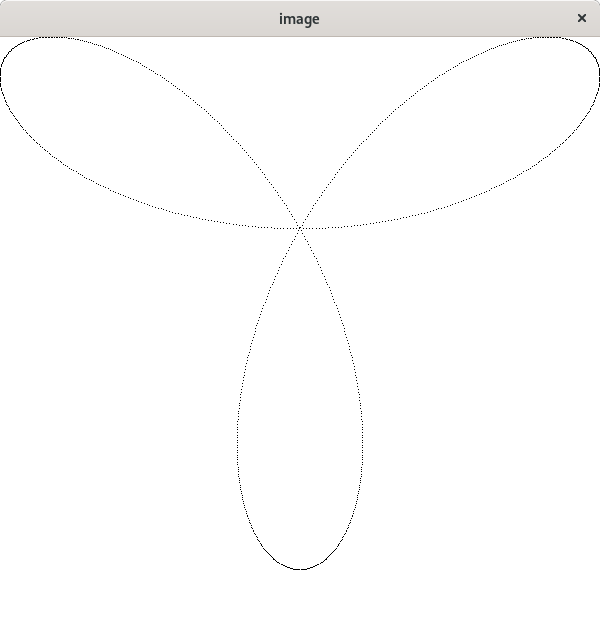
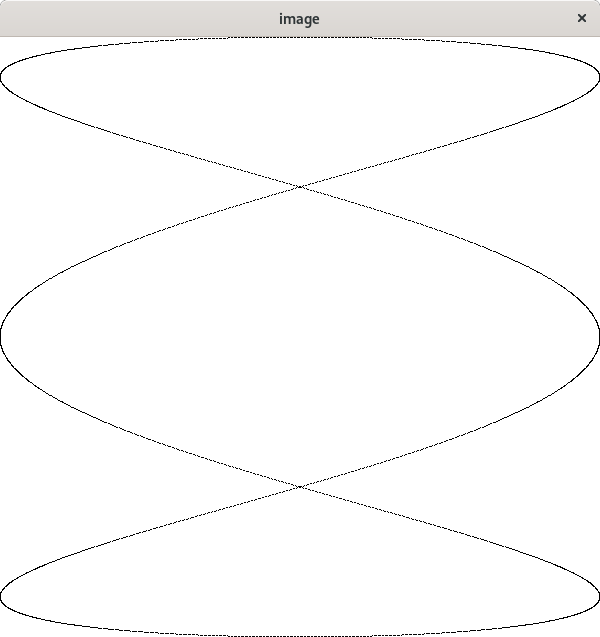
add static image

diff --git a/dynamicplot/P4PstaticImage.py b/dynamicplot/P4PstaticImage.py
@@ -1,0 +1,21 @@
+#!/usr/bin/env python
+
+import numpy as np
+import matplotlib.pyplot as plt
+from p4p.client.thread import Context
+import sys
+
+if __name__ == '__main__':
+    nargs = len(sys.argv)
+    if nargs<2 :
+        print('must specify channelName')
+    else :
+        channelName = sys.argv[1]
+        ctxt = Context('pva')
+        val = ctxt.get(channelName,"x,y")
+        x = val["x"]
+        y = val["y"]
+        plt.plot(x, y)
+        plt.xlabel("x")
+        plt.ylabel("y")
+        plt.show()

diff --git a/dynamicplot/PVAPYstaticImage.py b/dynamicplot/PVAPYstaticImage.py
@@ -1,0 +1,21 @@
+#!/usr/bin/env python
+
+import numpy as np
+import matplotlib.pyplot as plt
+from pvaccess import *
+import sys
+
+if __name__ == '__main__':
+    nargs = len(sys.argv)
+    if nargs<2 :
+        print('must specify channelName')
+    else :
+        channelName = sys.argv[1]
+        chan = Channel(channelName)
+        val = chan.get("x,y")
+        x = val["x"]
+        y = val["y"]
+        plt.plot(x, y)
+        plt.xlabel("x")
+        plt.ylabel("y")
+        plt.show()
